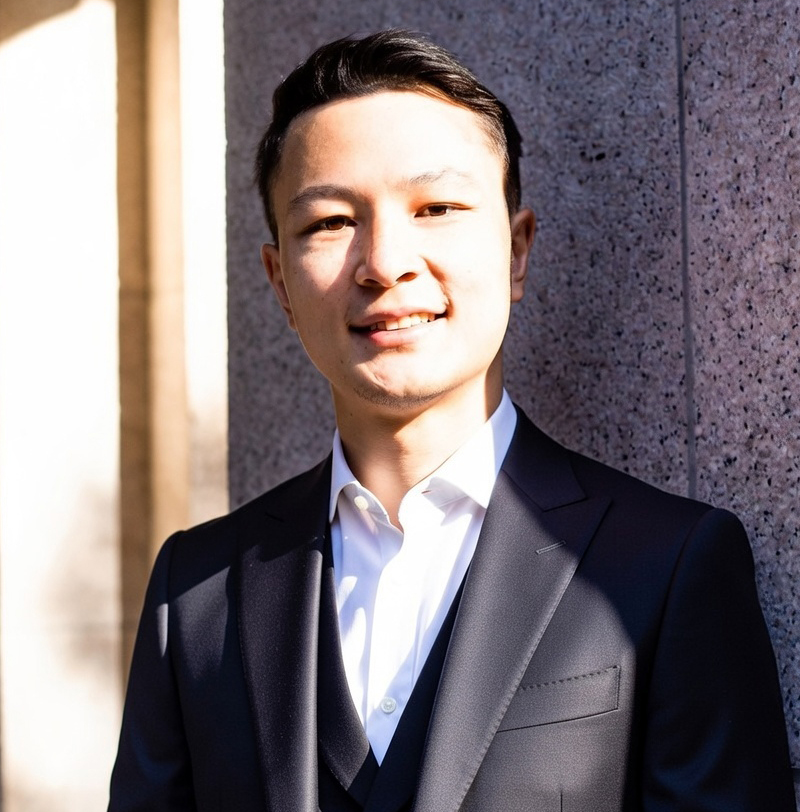
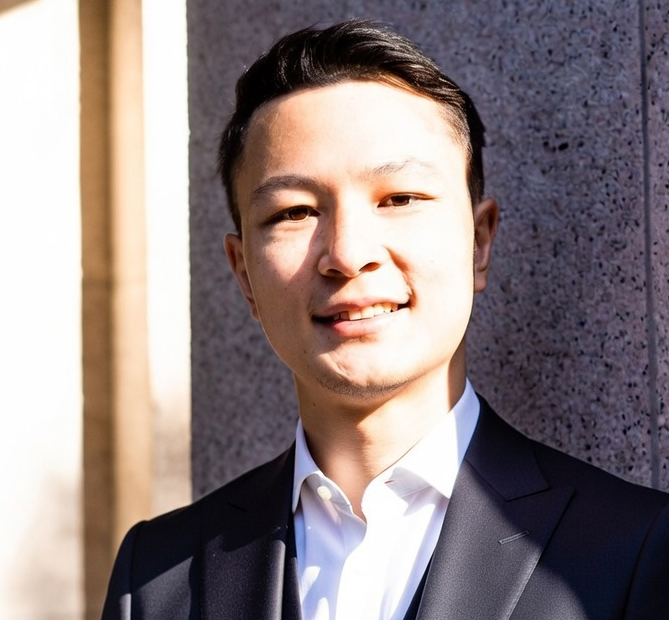
Update qualifications layout and refresh hero profile photo

diff --git a/index.html b/index.html
@@ -22,7 +22,7 @@
     <meta property="og:type" content="website" />
 
     <!-- Favicon -->
-    <link rel="icon" href="/assets/favicon.svg" type="image/svg+xml" />
+    <link rel="icon" href="assets/favicon.svg" type="image/svg+xml" />
 
     <!-- Google Fonts: Playfair Display (serif headings) + Inter (body) -->
     <link rel="preconnect" href="https://fonts.googleapis.com" />
@@ -32,7 +32,7 @@
       rel="stylesheet"
     />
 
-    <link rel="stylesheet" href="/styles.css" />
+    <link rel="stylesheet" href="styles.css" />
 
     <!-- Optional: improve typography rendering -->
     <meta name="color-scheme" content="light dark" />
@@ -88,7 +88,7 @@
 
         <div class="hero-aside">
           <img
-            src="/assets/profile.jpg"
+            src="assets/profile.jpg"
             alt="Gene Leung, orthopaedic spine surgeon"
             class="hero-image"
           />
@@ -115,25 +115,25 @@
 
             <ul class="qual-list" aria-label="Education">
               <li class="qual-item">
-                <img class="qual-icon" src="/assets/cuhklogo.png" alt="CUHK logo" />
+                <img class="qual-icon" src="assets/cuhklogo.png" alt="CUHK logo" />
                 <span>MBChB — CUHK</span>
               </li>
 
               <li class="qual-item">
-                <img class="qual-icon" src="/assets/cuhklogo.png" alt="CUHK logo" />
+                <img class="qual-icon" src="assets/cuhklogo.png" alt="CUHK logo" />
                 <span>MSc (Sports Medicine &amp; Health Sciences) — CUHK</span>
               </li>
 
               <li class="qual-item">
-                <img class="qual-icon" src="/assets/uoelogo.png" alt="University of Edinburgh logo" />
+                <img class="qual-icon" src="assets/uoelogo.png" alt="University of Edinburgh logo" />
                 <span>ChM (Trauma &amp; Orthopaedic Surgery) with Distinction — University of Edinburgh</span>
               </li>
 
               <li class="qual-divider" aria-hidden="true"></li>
-              <li class="qual-subhead" aria-hidden="true">Non-medical</li>
+              <li class="qual-subhead" aria-hidden="true">Legal Education</li>
 
               <li class="qual-item">
-                <img class="qual-icon" src="/assets/uollogo.png" alt="University of London logo" />
+                <img class="qual-icon" src="assets/uollogo.png" alt="University of London logo" />
                 <span>LLB Candidate — University of London</span>
               </li>
             </ul>
@@ -142,10 +142,10 @@
           <article class="card">
             <h3>Professional</h3>
             <ul class="pro-list">
-              <li>FRCSEd — Fellowship of the Royal College of Surgeons of Edinburgh</li>
-              <li>FRCS (Eng) — Fellowship of the Royal College of Surgeons of England</li>
               <li>FHKCOS — Fellowship of the Hong Kong College of Orthopaedic Surgeons</li>
               <li>FHKAM — Fellowship of the Hong Kong Academy of Medicine</li>
+              <li>FRCSEd — Fellowship of the Royal College of Surgeons of Edinburgh</li>
+              <li>FRCS (Eng) — Fellowship of the Royal College of Surgeons of England</li>
             </ul>
           </article>
         </div>
@@ -206,7 +206,7 @@
       </footer>
     </main>
 
-    <script src="/script.js"></script>
+    <script src="script.js"></script>
 
     <!-- Structured data -->
     <script type="application/ld+json">

diff --git a/styles.css b/styles.css
@@ -308,9 +308,11 @@ h1 {
   max-width: 340px;
   aspect-ratio: 1;
   object-fit: cover;
-  border-radius: 24px;
-  box-shadow: var(--shadow-lg);
-  border: none;
+  object-position: center 28%;
+  border-radius: 50%;
+  border: 2px solid rgba(255, 255, 255, 0.78);
+  box-shadow: 0 0 0 1px var(--panel-border), var(--shadow-lg);
+  background: #f3f3f3;
 }
 
 
@@ -448,13 +450,15 @@ h3 {
 }
 
 .qual-subhead {
-  margin: 4px 0 0;
-  padding-left: calc(28px + 14px);
-  font-size: var(--text-tiny);
-  font-weight: 600;
-  letter-spacing: 0.1em;
-  text-transform: uppercase;
-  color: var(--faint);
+  margin: 16px 0 16px;
+  padding-left: 0;
+  font-family: var(--font-serif);
+  font-size: var(--text-h3);
+  font-weight: 500;
+  letter-spacing: -0.01em;
+  text-transform: none;
+  color: var(--muted);
+  line-height: 1.2;
   list-style: none;
 }
 
